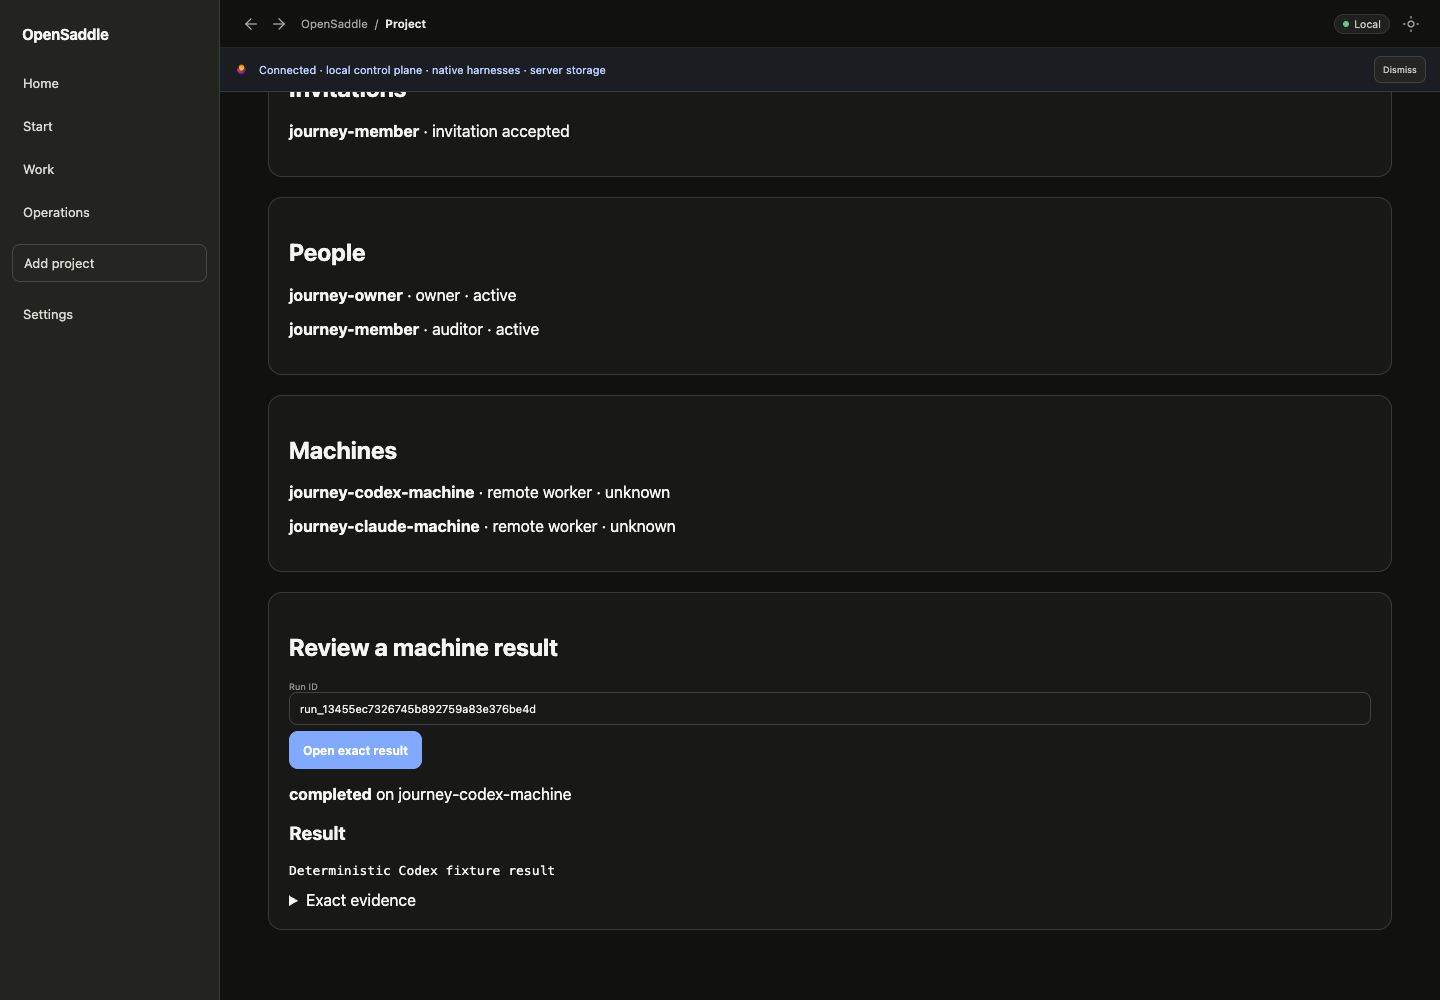
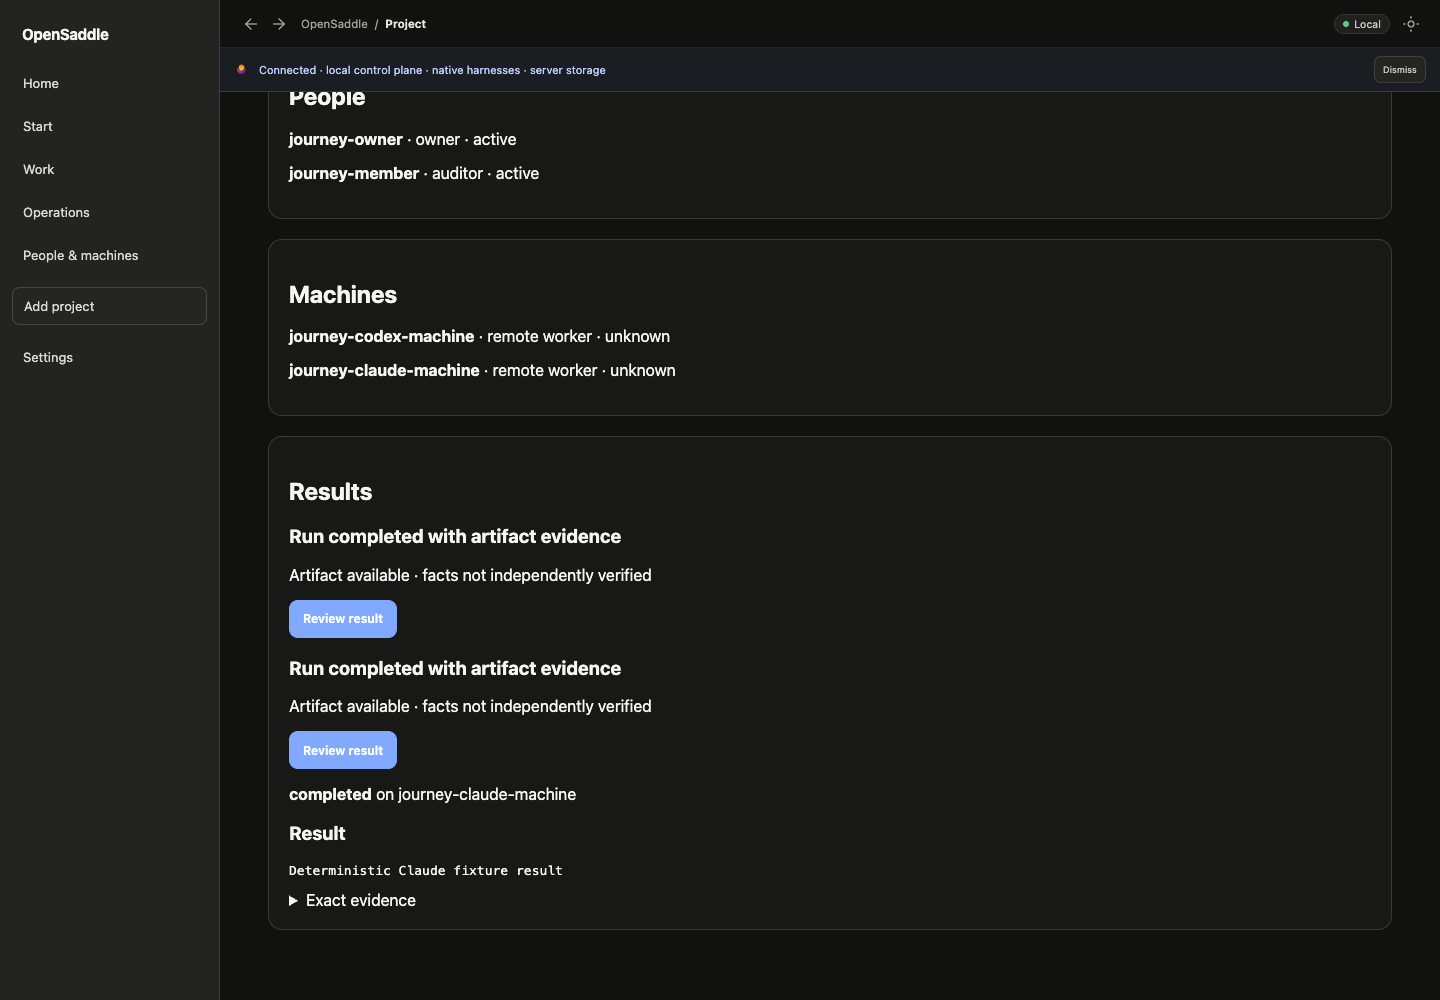
Surface connected Project results without raw IDs

diff --git a/src/services/remoteJourney.ts b/src/services/remoteJourney.ts
@@ -7,7 +7,7 @@ export class RemoteJourneyClient {
   constructor(baseUrl:string,user:()=>string,token?:string){this.baseUrl=baseUrl;this.user=user;this.token=token}
   private async request(path:string,method:string,body?:unknown){const response=await fetch(`${this.baseUrl.replace(/\/$/,'')}${path}`,{method,headers:{'Content-Type':'application/json','X-OpenSaddle-User':this.user(),...(this.token?{Authorization:`Bearer ${this.token}`}:{})},body:body===undefined?undefined:JSON.stringify(body)});if(!response.ok){const value=await response.json().catch(()=>null)as{detail?:unknown}|null;throw Error(typeof value?.detail==='string'?value.detail:`Connected journey request failed (${response.status})`)}return await response.json() as Json}
   createProject(projectId:string){return this.request('/api/v2/projects','POST',{project_id:projectId})}
-  async snapshot(projectId:string){const invitations=await this.invitations(projectId);if(invitations.project_id!==projectId)throw Error('Connected journey Project identity mismatch');const mappedInvitations=(Array.isArray(invitations.invitations)?invitations.invitations:[]).map(value=>{const item=value as Json;return{invitationId:String(item.invitation_id),recipientSubject:String(item.recipient_subject),status:String(item.status),revision:Number(item.revision),expiresAt:String(item.expires_at)}});let members:Json,workers:Json;try{[members,workers]=await Promise.all([this.request(`/api/v2/projects/${encodeURIComponent(projectId)}/members`,'GET'),this.request(`/api/v2/projects/${encodeURIComponent(projectId)}/workers`,'GET')])}catch(reason){if(mappedInvitations.some(item=>item.status==='pending'))return{projectId,members:[],workers:[],invitations:mappedInvitations,rosterAvailable:false,canManage:false,currentSubject:this.user()};throw reason}if(members.project_id!==projectId||workers.project_id!==projectId)throw Error('Connected journey Project identity mismatch');return{projectId,members:(Array.isArray(members.members)?members.members:[]).map(value=>{const item=value as Json;return{subject:String(item.subject),role:String(item.role),status:String(item.status)}}),workers:(Array.isArray(workers.workers)?workers.workers:[]).map(value=>{const item=value as Json;return{workerId:String(item.worker_id),runtimeKind:String(item.runtime_kind),status:String(item.status)}}),invitations:mappedInvitations,rosterAvailable:true,currentSubject:this.user(),canManage:(Array.isArray(members.members)?members.members:[]).some(value=>{const item=value as Json;return item.subject===this.user()&&(item.role==='owner'||item.role==='admin')})}}
+  async snapshot(projectId:string){const invitations=await this.invitations(projectId);if(invitations.project_id!==projectId)throw Error('Connected journey Project identity mismatch');const mappedInvitations=(Array.isArray(invitations.invitations)?invitations.invitations:[]).map(value=>{const item=value as Json;return{invitationId:String(item.invitation_id),recipientSubject:String(item.recipient_subject),status:String(item.status),revision:Number(item.revision),expiresAt:String(item.expires_at)}});let members:Json,workers:Json,center:Json;try{[members,workers,center]=await Promise.all([this.request(`/api/v2/projects/${encodeURIComponent(projectId)}/members`,'GET'),this.request(`/api/v2/projects/${encodeURIComponent(projectId)}/workers`,'GET'),this.request('/api/v2/command-center','GET')])}catch(reason){if(mappedInvitations.some(item=>item.status==='pending'))return{projectId,members:[],workers:[],invitations:mappedInvitations,rosterAvailable:false,canManage:false,currentSubject:this.user()};throw reason}if(members.project_id!==projectId||workers.project_id!==projectId)throw Error('Connected journey Project identity mismatch');return{projectId,members:(Array.isArray(members.members)?members.members:[]).map(value=>{const item=value as Json;return{subject:String(item.subject),role:String(item.role),status:String(item.status)}}),workers:(Array.isArray(workers.workers)?workers.workers:[]).map(value=>{const item=value as Json;return{workerId:String(item.worker_id),runtimeKind:String(item.runtime_kind),status:String(item.status)}}),invitations:mappedInvitations,results:(Array.isArray(center.outcomes)?center.outcomes:[]).flatMap(value=>{const item=value as Json;return item.project_id===projectId&&typeof item.run_id==='string'?[{runId:item.run_id,title:String(item.title),verified:item.verified===true}]:[]}),rosterAvailable:true,currentSubject:this.user(),canManage:(Array.isArray(members.members)?members.members:[]).some(value=>{const item=value as Json;return item.subject===this.user()&&(item.role==='owner'||item.role==='admin')})}}
   async invite(projectId:string,subject:string){await this.request(`/api/v2/projects/${encodeURIComponent(projectId)}/invitations`,'POST',{recipient_subject:subject,role:'member',ttl_seconds:3600})}
   async enroll(projectId:string,workerId:string){await this.registerWorker({workerId,organizationId:projectId,projectIds:[projectId],runtimeKind:'remote_worker'})}
   invitations(projectId:string){return this.request(`/api/v2/projects/${encodeURIComponent(projectId)}/invitations`,'GET')}

diff --git a/src/features/onboarding/ConnectedJourneySurface.tsx b/src/features/onboarding/ConnectedJourneySurface.tsx
@@ -9,6 +9,7 @@ export type JourneySnapshot = {
   rosterAvailable?: boolean
   canManage?: boolean
   currentSubject?: string
+  results?: Array<{ runId: string; title: string; verified: boolean }>
 }
 
 export interface JourneyAuthority {
@@ -18,6 +19,7 @@ export interface JourneyAuthority {
   acceptInvitation?(projectId: string, id: string, revision: number): Promise<unknown>
   revokeInvitation?(projectId: string, id: string, revision: number): Promise<unknown>
   review?(projectId: string, runId: string): Promise<{ runId: string; status: string; workerId: string; resource: { artifact_id: string; digest: string }; text: string }>
+  createProject?(projectId: string): Promise<unknown>
 }
 
 type State = { authority: JourneyAuthority; projectId: string; value?: JourneySnapshot; error?: string }
@@ -28,7 +30,6 @@ export function ConnectedJourneySurface({ authority, projectId }: { authority: J
   const [state, setState] = useState<State>({ authority, projectId })
   const [subject, setSubject] = useState('')
   const [worker, setWorker] = useState('')
-  const [runId, setRunId] = useState('')
   const [result, setResult] = useState<Awaited<ReturnType<NonNullable<JourneyAuthority['review']>>>>()
 
   const load = async () => {
@@ -80,6 +81,6 @@ export function ConnectedJourneySurface({ authority, projectId }: { authority: J
       {value.canManage && <div className="form-row"><label>Teammate identity<input value={subject} onChange={event => setSubject(event.target.value)} /></label><button className="primary-btn" disabled={!subject.trim()} onClick={() => void act(() => authority.invite(projectId, subject.trim()))}>Invite teammate</button></div>}
     </section>
     {value.rosterAvailable !== false && <><section className="cc-panel"><h2>People</h2>{value.members.map(item => <p key={item.subject}><strong>{item.subject}</strong> · {item.role} · {item.status}</p>)}</section><section className="cc-panel"><h2>Machines</h2>{value.workers.length ? value.workers.map(item => <p key={item.workerId}><strong>{item.workerId}</strong> · {item.runtimeKind.replaceAll('_', ' ')} · {item.status}</p>) : <p>No machine is registered for this Project.</p>}{value.canManage && <><p>Registering a machine creates its Project assignment. The worker still connects separately with its issued credential.</p><div className="form-row"><label>Machine name<input value={worker} onChange={event => setWorker(event.target.value)} /></label><button className="primary-btn" disabled={!worker.trim()} onClick={() => void act(() => authority.enroll(projectId, worker.trim()))}>Register machine</button></div></>}</section></>}
-    {value.rosterAvailable !== false && authority.review && <section className="cc-panel"><h2>Review a machine result</h2><div className="form-row"><label>Run ID<input value={runId} onChange={event => { setRunId(event.target.value); setResult(undefined) }} /></label><button className="primary-btn" disabled={!runId.trim()} onClick={() => void act(async () => setResult(await authority.review!(projectId, runId.trim())))}>Open exact result</button></div>{result && <article><p><strong>{result.status}</strong> on {result.workerId}</p><h3>Result</h3><pre>{result.text}</pre><details><summary>Exact evidence</summary><p><code>{result.runId}/{result.resource.artifact_id}</code></p><p><code>{result.resource.digest}</code></p></details></article>}</section>}
+    {value.rosterAvailable !== false && authority.review && <section className="cc-panel"><h2>Results</h2>{value.results?.length ? value.results.map(item => <article key={item.runId}><h3>{item.title}</h3><p>{item.verified ? 'Verified' : 'Artifact available · facts not independently verified'}</p><button className="primary-btn" onClick={() => void act(async () => setResult(await authority.review!(projectId, item.runId)))}>Review result</button></article>) : <p>No completed machine result is available.</p>}{result && <article><p><strong>{result.status}</strong> on {result.workerId}</p><h3>Result</h3><pre>{result.text}</pre><details><summary>Exact evidence</summary><p><code>{result.runId}/{result.resource.artifact_id}</code></p><p><code>{result.resource.digest}</code></p></details></article>}</section>}
   </main>
 }

diff --git a/src/App.tsx b/src/App.tsx
@@ -310,7 +310,7 @@ function Shell() {
           }}
         />
       )}
-      {!settingsFocused && connectedLocal && <aside className="sidebar" id="sidebar"><nav className="sidebar-nav" aria-label="Connected workflow"><NavLink to="/home">Home</NavLink><NavLink to="/start">Start</NavLink><NavLink to="/work">Work</NavLink><NavLink to="/operations">Operations</NavLink>{services?.localProjects&&<button type="button" onClick={() => setProjectModal(true)}>Add project</button>}<NavLink to="/settings">Settings</NavLink></nav></aside>}
+      {!settingsFocused && connectedLocal && <aside className="sidebar" id="sidebar"><nav className="sidebar-nav" aria-label="Connected workflow"><NavLink to="/home">Home</NavLink><NavLink to="/start">Start</NavLink><NavLink to="/work">Work</NavLink><NavLink to="/operations">Operations</NavLink><NavLink to="/collaboration">People &amp; machines</NavLink>{services?.localProjects&&<button type="button" onClick={() => setProjectModal(true)}>Add project</button>}<NavLink to="/settings">Settings</NavLink></nav></aside>}
       <main className={`main ${browserOpen ? 'native-browser-open' : ''}`}>
         {!settingsFocused && <Topbar crumbs={crumbs} sidebarCollapsed={connectedLocal ? false : sidebarCollapsed} onToggleSidebar={() => setSidebarCollapsed((value) => !value)} onBack={() => nav(-1)} onForward={() => nav(1)} onPalette={() => setPalette(true)} onBrowser={connectedLocal ? undefined : () => { setBrowserOpen(true); setBrowserCollapsed(false) }} />}
         {!settingsFocused && <DemoBanner />}
@@ -326,6 +326,7 @@ function Shell() {
             <Route path="/proposals/review" element={<ProposalReviewPage />} />
             <Route path="/participants/review" element={<ParticipantReviewPage />} />
             <Route path="/operations" element={<OperationsPage />} />
+            <Route path="/collaboration" element={<ConnectedJourneyPage />} />
             <Route path="/runs" element={<RunsPage />} />
             <Route path="/start" element={<StartPage />} />
             <Route path="/work" element={<WorkPage />} />
@@ -344,6 +345,7 @@ function Shell() {
             <Route path="/proposals/review" element={<ProposalReviewPage />} />
             <Route path="/participants/review" element={<ParticipantReviewPage />} />
             <Route path="/operations" element={<OperationsPage />} />
+            <Route path="/collaboration" element={<ConnectedJourneyPage />} />
             <Route path="/project/:projectId/collaboration" element={<ConnectedJourneyPage />} />
             <Route path="/start" element={<StartPage />} />
             <Route path="/work" element={<WorkPage />} />

diff --git a/src/features/onboarding/ConnectedJourneyPage.tsx b/src/features/onboarding/ConnectedJourneyPage.tsx
@@ -1,2 +1,2 @@
-import{useParams}from'react-router-dom';import{useStore}from'../../data/store';import{ConnectedJourneySurface}from'./ConnectedJourneySurface'
-export function ConnectedJourneyPage(){const{projectId}=useParams(),{services}=useStore();if(!projectId||!services?.journey)return <main className="content-page cc-page"><h1>People and machines</h1><p role="alert">Connected collaboration authority is unavailable from this server.</p></main>;return <ConnectedJourneySurface authority={services.journey} projectId={projectId}/>}
+import{useState}from'react';import{useNavigate,useParams}from'react-router-dom';import{useStore}from'../../data/store';import{ConnectedJourneySurface}from'./ConnectedJourneySurface'
+export function ConnectedJourneyPage(){const{projectId}=useParams(),{services}=useStore(),navigate=useNavigate(),journey=services?.journey,[name,setName]=useState(''),[error,setError]=useState<string>();if(!journey)return <main className="content-page cc-page"><h1>People and machines</h1><p role="alert">Connected collaboration authority is unavailable from this server.</p></main>;if(!projectId)return <main className="content-page cc-page"><header className="page-header"><div><span className="eyebrow">Connected setup</span><h1>Create a shared Project</h1><p>Start with one named Project. You can invite a teammate and register machines after it exists.</p></div></header>{error&&<p role="alert">{error}</p>}<section className="cc-panel"><div className="form-row"><label>Project ID<input value={name} onChange={event=>setName(event.target.value)} placeholder="my-project"/></label><button className="primary-btn" disabled={!name.trim()||!journey.createProject} onClick={()=>void journey.createProject!(name.trim()).then(()=>navigate(`/project/${encodeURIComponent(name.trim())}/collaboration`)).catch(reason=>setError(reason instanceof Error?reason.message:String(reason)))}>Create Project</button></div></section></main>;return <ConnectedJourneySurface authority={journey} projectId={projectId}/>}
